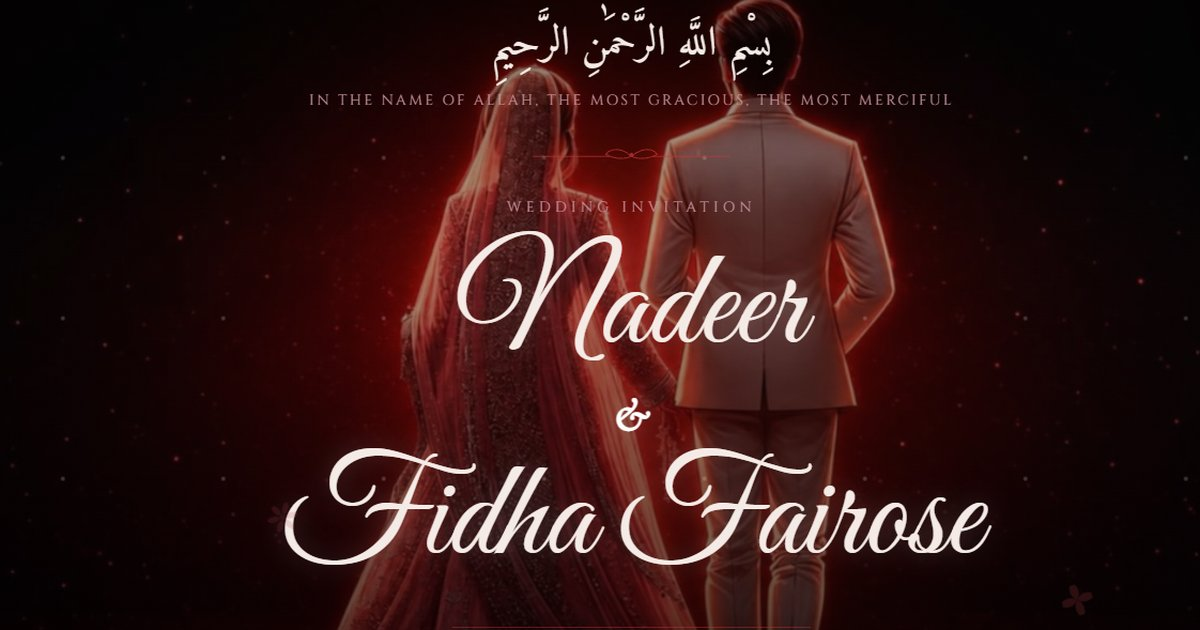
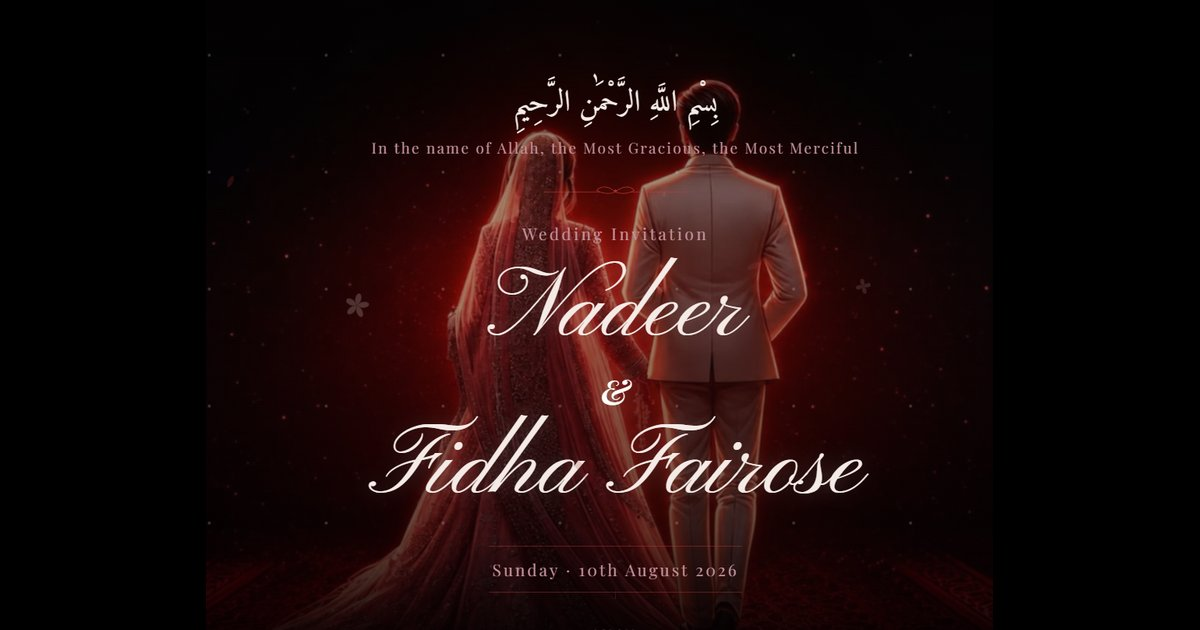
sw

diff --git a/index.html b/index.html
@@ -4,15 +4,15 @@
 <head>
   <meta charset="UTF-8">
   <meta name="viewport" content="width=device-width, initial-scale=1.0">
-  <title>Nadeer &amp; Fidha Fairose — Wedding Invitation</title>
+  <title>Fidha Fairose &amp; Nadeer — Wedding Invitation</title>
   <meta name="description"
-    content="Wedding invitation for Nadeer and Fidha Fairose — Sunday , 10th August 2026 at Friend's Auditorium, Edappal &amp; Veliyankode Juma Masjid">
+    content="Wedding invitation for Fidha Fairose and Nadeer — Monday , 10th August 2026 at Friend's Auditorium, Edappal &amp; Veliyankode Juma Masjid">
 
   <!-- Open Graph -->
   <meta property="og:type" content="website">
   <meta property="og:url" content="https://nadeer-fidha.skenllp.com/">
-  <meta property="og:title" content="Nadeer &amp; Fidha Fairose — Wedding Invitation">
-  <meta property="og:description" content="Wedding invitation for Nadeer and Fidha Fairose — Sunday , 10th August 2026">
+  <meta property="og:title" content="Fidha Fairose &amp; Nadeer — Wedding Invitation">
+  <meta property="og:description" content="Wedding invitation for Fidha Fairose and Nadeer — Monday , 10th August 2026">
   <meta property="og:image" content="https://nadeera-fidha.vercel.app/og.jpg">
   <meta property="og:image:width" content="1200">
   <meta property="og:image:height" content="630">
@@ -20,8 +20,9 @@
   <!-- Twitter -->
   <meta property="twitter:card" content="summary_large_image">
   <meta property="twitter:url" content="https://nadeer-fidha.skenllp.com/">
-  <meta property="twitter:title" content="Nadeer &amp; Fidha Fairose — Wedding Invitation">
-  <meta property="twitter:description" content="Wedding invitation for Nadeer and Fidha Fairose — Sunday , 10th August 2026">
+  <meta property="twitter:title" content="Fidha Fairose &amp; Nadeer — Wedding Invitation">
+  <meta property="twitter:description"
+    content="Wedding invitation for Fidha Fairose and Nadeer — Monday , 10th August 2026">
   <meta property="twitter:image" content="https://nadeera-fidha.vercel.app/og.jpg">
 
   <link rel="preconnect" href="https://fonts.googleapis.com">
@@ -83,9 +84,9 @@
       </svg>
       <p class="splash-bismillah">بِسْمِ اللَّهِ الرَّحْمَٰنِ الرَّحِيمِ</p>
       <div class="splash-names">
-        <span class="splash-name">Nadeer</span>
-        <span class="splash-amp">&amp;</span>
         <span class="splash-name">Fidha Fairose</span>
+        <span class="splash-amp">&amp;</span>
+        <span class="splash-name">Nadeer</span>
       </div>
       <p class="splash-tagline">Request the Pleasure of Your Company</p>
       <button class="splash-btn" id="openInvitationBtn">
@@ -125,16 +126,16 @@
 
       <h1 class="names">
         <span class="name-block">
-          <span class="name-text">Nadeer</span>
+          <span class="name-text">Fidha Fairose</span>
         </span>
         <span class="amp">&amp;</span>
         <span class="name-block">
-          <span class="name-text">Fidha Fairose</span>
+          <span class="name-text">Nadeer</span>
         </span>
       </h1>
 
       <div class="hero-date">
-        <p class="date-en">Sunday  · 10th August 2026</p>
+        <p class="date-en">Monday · 10th August 2026</p>
       </div>
     </div>
 
@@ -161,18 +162,6 @@
     <h2 class="section-title">The Couple</h2>
 
     <div class="family-grid">
-      <!-- Groom Card -->
-      <div class="family-card">
-        <svg class="card-corner-sprig" aria-hidden="true">
-          <use href="#sprig-motif" />
-        </svg>
-        <p class="family-role">Groom</p>
-        <h3 class="family-person-name">Nadeer</h3>
-        <p class="family-relation">Son of</p>
-        <p class="family-parents">Mr. Abdul Sathar &amp; Mrs. Thajunniza Sathar</p>
-        <p class="family-address">Velakkattil House &mdash; Thattanpadi, Edapal</p>
-      </div>
-
       <!-- Bride Card -->
       <div class="family-card">
         <svg class="card-corner-sprig" aria-hidden="true">
@@ -183,6 +172,18 @@
         <p class="family-relation">Daughter of</p>
         <p class="family-parents">Mr. Abdul Kareem &amp; Mrs. Raseena Kareem</p>
         <p class="family-address">Nakolakkal House &mdash; Veliyancode, Kinar</p>
+      </div>
+
+      <!-- Groom Card -->
+      <div class="family-card">
+        <svg class="card-corner-sprig" aria-hidden="true">
+          <use href="#sprig-motif" />
+        </svg>
+        <p class="family-role">Groom</p>
+        <h3 class="family-person-name">Nadeer</h3>
+        <p class="family-relation">Son of</p>
+        <p class="family-parents">Mr. Abdul Sathar &amp; Mrs. Thajunniza Sathar</p>
+        <p class="family-address">Velakkattil House &mdash; Thattanpadi, Edapal</p>
       </div>
     </div>
   </section>
@@ -209,7 +210,7 @@
           </div>
           <div>
             <p class="occasion-label">Date</p>
-            <p class="occasion-value">Sunday , 10th August 2026</p>
+            <p class="occasion-value">Monday , 10th August 2026</p>
           </div>
         </div>
 
@@ -262,7 +263,7 @@
           </div>
           <div>
             <p class="occasion-label">Date</p>
-            <p class="occasion-value">Sunday , 10th August 2026</p>
+            <p class="occasion-value">Monday , 10th August 2026</p>
           </div>
         </div>
 
@@ -341,14 +342,13 @@
       </p>
 
       <!-- Embedded Google Map -->
-      <iframe class="venue-map" 
-        src="https://maps.google.com/maps?q=Friends+Auditorium+Perumparamba+Edappal&t=&z=15&ie=UTF8&iwloc=&output=embed" 
-        allowfullscreen="" 
-        loading="lazy" 
-        referrerpolicy="no-referrer-when-downgrade">
+      <iframe class="venue-map"
+        src="https://maps.google.com/maps?q=Friends+Auditorium+Perumparamba+Edappal&t=&z=15&ie=UTF8&iwloc=&output=embed"
+        allowfullscreen="" loading="lazy" referrerpolicy="no-referrer-when-downgrade">
       </iframe>
 
-      <a class="maps-btn" href="https://www.google.com/maps/search/?api=1&query=Friends+Auditorium+Perumparamba+Edappal" target="_blank" rel="noopener">
+      <a class="maps-btn" href="https://www.google.com/maps/search/?api=1&query=Friends+Auditorium+Perumparamba+Edappal"
+        target="_blank" rel="noopener">
         <svg width="15" height="15" viewBox="0 0 24 24" fill="none">
           <path d="M12 21s7-6.1 7-11.5A7 7 0 0 0 5 9.5C5 14.9 12 21 12 21Z" stroke="currentColor" stroke-width="1.5"
             stroke-linejoin="round" />
@@ -426,7 +426,7 @@
   <!-- ============ COUPLES IMAGE ============ -->
   <!-- <section class="section couples-section">
     <div class="couples-img-container reveal">
-      <img src="couples.png" alt="Nadeer &amp; Fidha Fairose" class="couples-img">
+      <img src="couples.png" alt="Fidha Fairose &amp; Nadeer" class="couples-img">
     </div>
   </section> -->
 
@@ -447,33 +447,21 @@
       <form class="wish-form" id="wishForm" novalidate>
         <div class="wish-field">
           <label class="wish-label" for="wishName">Your Name</label>
-          <input
-            class="wish-input"
-            type="text"
-            id="wishName"
-            name="name"
-            placeholder="e.g. Mohammed Ali"
-            autocomplete="name"
-            required
-          >
+          <input class="wish-input" type="text" id="wishName" name="name" placeholder="e.g. Mohammed Ali"
+            autocomplete="name" required>
         </div>
 
         <div class="wish-field">
           <label class="wish-label" for="wishMessage">Your Wish / Dua</label>
-          <textarea
-            class="wish-input wish-textarea"
-            id="wishMessage"
-            name="message"
-            rows="5"
-            placeholder="May Allah bless this union with endless love, peace, and happiness…"
-            required
-          ></textarea>
+          <textarea class="wish-input wish-textarea" id="wishMessage" name="message" rows="5"
+            placeholder="May Allah bless this union with endless love, peace, and happiness…" required></textarea>
         </div>
 
         <button class="wish-submit" type="submit" id="wishSubmitBtn">
           <svg width="17" height="17" viewBox="0 0 24 24" fill="none" aria-hidden="true">
-            <path d="M21 11.5a8.38 8.38 0 01-.9 3.8 8.5 8.5 0 01-7.6 4.7 8.38 8.38 0 01-3.8-.9L3 21l1.9-5.7a8.38 8.38 0 01-.9-3.8 8.5 8.5 0 014.7-7.6 8.38 8.38 0 013.8-.9h.5a8.48 8.48 0 018 8v.5z"
-              stroke="currentColor" stroke-width="1.6" stroke-linecap="round" stroke-linejoin="round"/>
+            <path
+              d="M21 11.5a8.38 8.38 0 01-.9 3.8 8.5 8.5 0 01-7.6 4.7 8.38 8.38 0 01-3.8-.9L3 21l1.9-5.7a8.38 8.38 0 01-.9-3.8 8.5 8.5 0 014.7-7.6 8.38 8.38 0 013.8-.9h.5a8.48 8.48 0 018 8v.5z"
+              stroke="currentColor" stroke-width="1.6" stroke-linecap="round" stroke-linejoin="round" />
           </svg>
           Send via WhatsApp
         </button>
@@ -481,11 +469,12 @@
 
       <div class="wish-success" id="wishSuccess" aria-live="polite" hidden>
         <svg width="42" height="42" viewBox="0 0 24 24" fill="none" aria-hidden="true">
-          <circle cx="12" cy="12" r="10" stroke="currentColor" stroke-width="1.4"/>
-          <path d="M8 12l3 3 5-5" stroke="currentColor" stroke-width="1.6" stroke-linecap="round" stroke-linejoin="round"/>
+          <circle cx="12" cy="12" r="10" stroke="currentColor" stroke-width="1.4" />
+          <path d="M8 12l3 3 5-5" stroke="currentColor" stroke-width="1.6" stroke-linecap="round"
+            stroke-linejoin="round" />
         </svg>
         <p class="wish-success-title">JazakAllahu Khayran! 🤍</p>
-        <p class="wish-success-sub">Your wish has been sent. May Allah accept your duas.</p> 
+        <p class="wish-success-sub">Your wish has been sent. May Allah accept your duas.</p>
       </div>
     </div>
   </section>
@@ -499,7 +488,7 @@
     <p class="thankyou-text">
       We are grateful for your love, prayers, and presence on this blessed occasion.
     </p>
-    <p class="thankyou-names">Nadeer &amp; Fidha Fairose</p>
+    <p class="thankyou-names">Fidha Fairose &amp; Nadeer</p>
   </footer>
 
   <!-- ============ BACKGROUND MUSIC ============ -->

diff --git a/script.js b/script.js
@@ -327,7 +327,7 @@ if (wishForm) {
     if (!valid) { nameEl.focus(); return; }
 
     // Build WhatsApp deep-link with pre-filled message
-    const text = `*Wedding Wish for Nadeer & Fidha Fairose*\n\n*From:* ${name}\n\n*Message:*\n${msg}`;
+    const text = `*Wedding Wish for Fidha Fairose & Nadeer*\n\n*From:* ${name}\n\n*Message:*\n${msg}`;
     const url  = `https://wa.me/${WHATSAPP_NUMBER}?text=${encodeURIComponent(text)}`;
 
     window.location.href = url;
